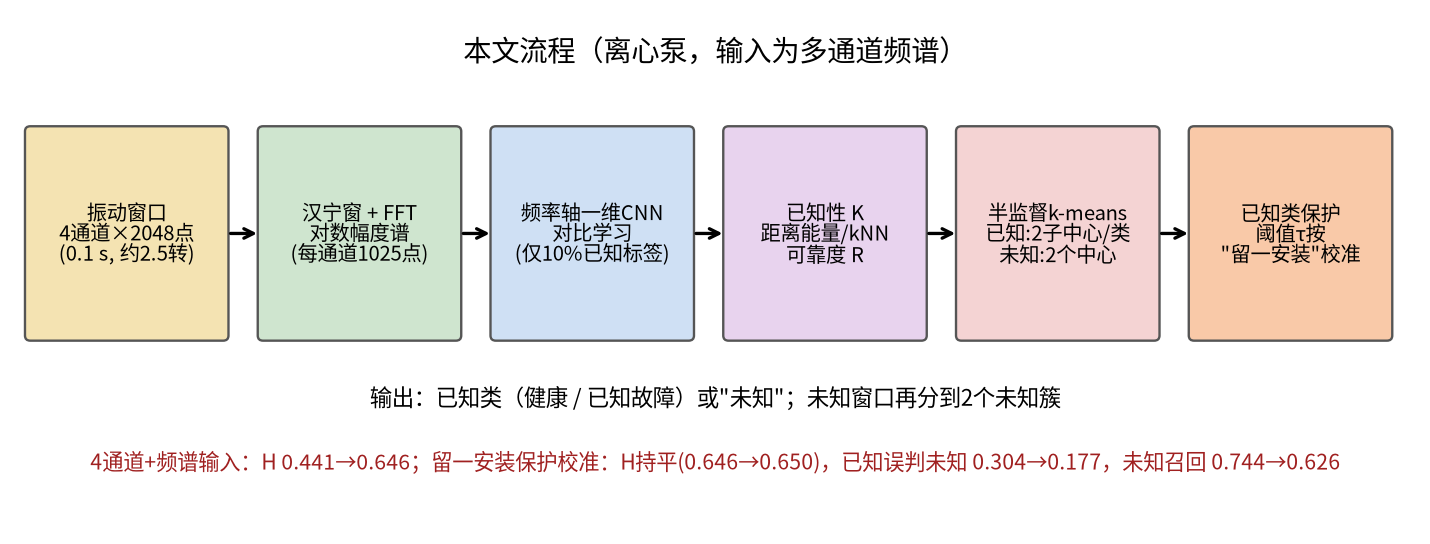
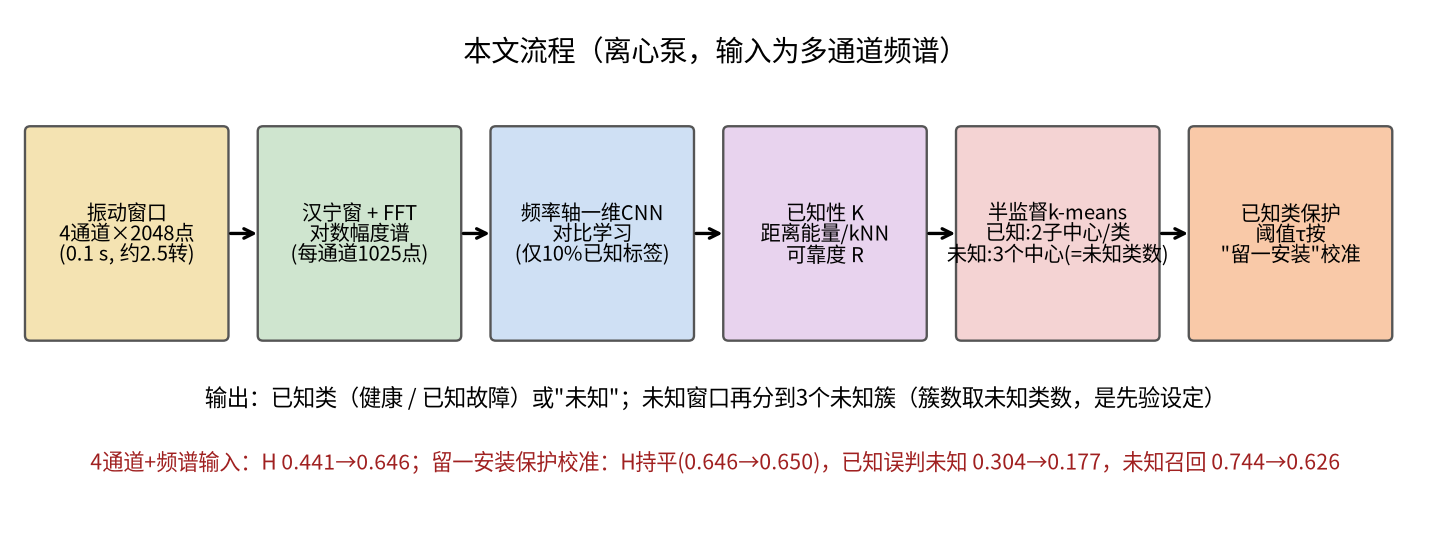
fix: pump experiments use 3 unknown centres (= number of unknown classes), not 2

Changed region(s): [[0.1231, 0.6875, 0.8615, 0.75], [0.6462, 0.375, 0.8308, 0.5]]

diff --git a/make_report.py b/make_report.py
@@ -89,12 +89,12 @@ plt.tight_layout(); plt.savefig('fig1_split.png', dpi=170); plt.close()
 fig, ax = plt.subplots(figsize=(10.6, 3.9)); ax.axis('off'); ax.set_xlim(0, 10.5); ax.set_ylim(0, 4)
 boxes = [(0.1, '振动窗口\n4通道×2048点\n(0.1 s, 约2.5转)', '#f4e3b2'), (1.85, '汉宁窗 + FFT\n对数幅度谱\n(每通道1025点)', '#cfe5cf'),
          (3.6, '频率轴一维CNN\n对比学习\n(仅10%已知标签)', '#cfe0f4'), (5.35, '已知性 K\n距离能量/kNN\n可靠度 R', '#e8d3ee'),
-         (7.1, '半监督k-means\n已知:2子中心/类\n未知:2个中心', '#f4d3d3'), (8.85, '已知类保护\n阈值τ按\n"留一安装"校准', '#f9c9a8')]
+         (7.1, '半监督k-means\n已知:2子中心/类\n未知:3个中心(=未知类数)', '#f4d3d3'), (8.85, '已知类保护\n阈值τ按\n"留一安装"校准', '#f9c9a8')]
 for x, t, c in boxes:
     ax.add_patch(FancyBboxPatch((x, 1.5), 1.45, 1.6, boxstyle='round,pad=0.04', fc=c, ec='#555')); ax.text(x + 0.725, 2.3, t, ha='center', va='center', fontsize=8.6)
 for x in (1.57, 3.32, 5.07, 6.82, 8.57): ax.annotate('', xy=(x + 0.27, 2.3), xytext=(x, 2.3), arrowprops=dict(arrowstyle='->', lw=1.4))
 ax.text(5.25, 3.65, '本文流程（离心泵，输入为多通道频谱）', ha='center', fontsize=12)
-ax.text(5.25, 0.95, '输出：已知类（健康 / 已知故障）或"未知"；未知窗口再分到2个未知簇', ha='center', fontsize=9.5)
+ax.text(5.25, 0.95, '输出：已知类（健康 / 已知故障）或"未知"；未知窗口再分到3个未知簇（簇数取未知类数，是先验设定）', ha='center', fontsize=9.5)
 ax.text(5.25, 0.45, '4通道+频谱输入：H 0.441→0.646；留一安装保护校准：H持平(0.646→0.650)，已知误判未知 0.304→0.177，未知召回 0.744→0.626', ha='center', fontsize=9, color='#a02020')
 plt.savefig('fig2_pipeline.png', dpi=170, bbox_inches='tight'); plt.close()
 

diff --git a/汇报材料_离心泵数据集.md b/汇报材料_离心泵数据集.md
@@ -89,7 +89,7 @@
 1. 4 通道窗口 → 汉宁窗 + FFT → 对数幅度谱。
 2. 频率轴一维 CNN，用对比学习（有标签的用有监督对比，其余用自监督）训练。
 3. 已知性 K（距离能量 / kNN）和可靠度 R 用于挑选可靠的未知窗口。
-4. 半监督 k-means：每个已知类 2 个子中心，2 个未知中心，未知中心用"可靠未知"窗口初始化。
+4. 半监督 k-means：每个已知类 2 个子中心；**离心泵实验里未知中心数 = 3（等于未知类的个数，是先验设定，没有让模型自己确定）**，未知中心用"可靠未知"窗口初始化。（Paderborn 单工况实验里设的是 2。）
 5. **已知类保护**：被分到未知簇的窗口，如果它到最近已标注窗口的相似度不低于阈值 τ，就送回最近的已知类。τ 取"留一安装"校准分布的 40% 分位数：每个已标注窗口只和**其他安装**的窗口比较，只用已知类的安装编号。
 
 ---
